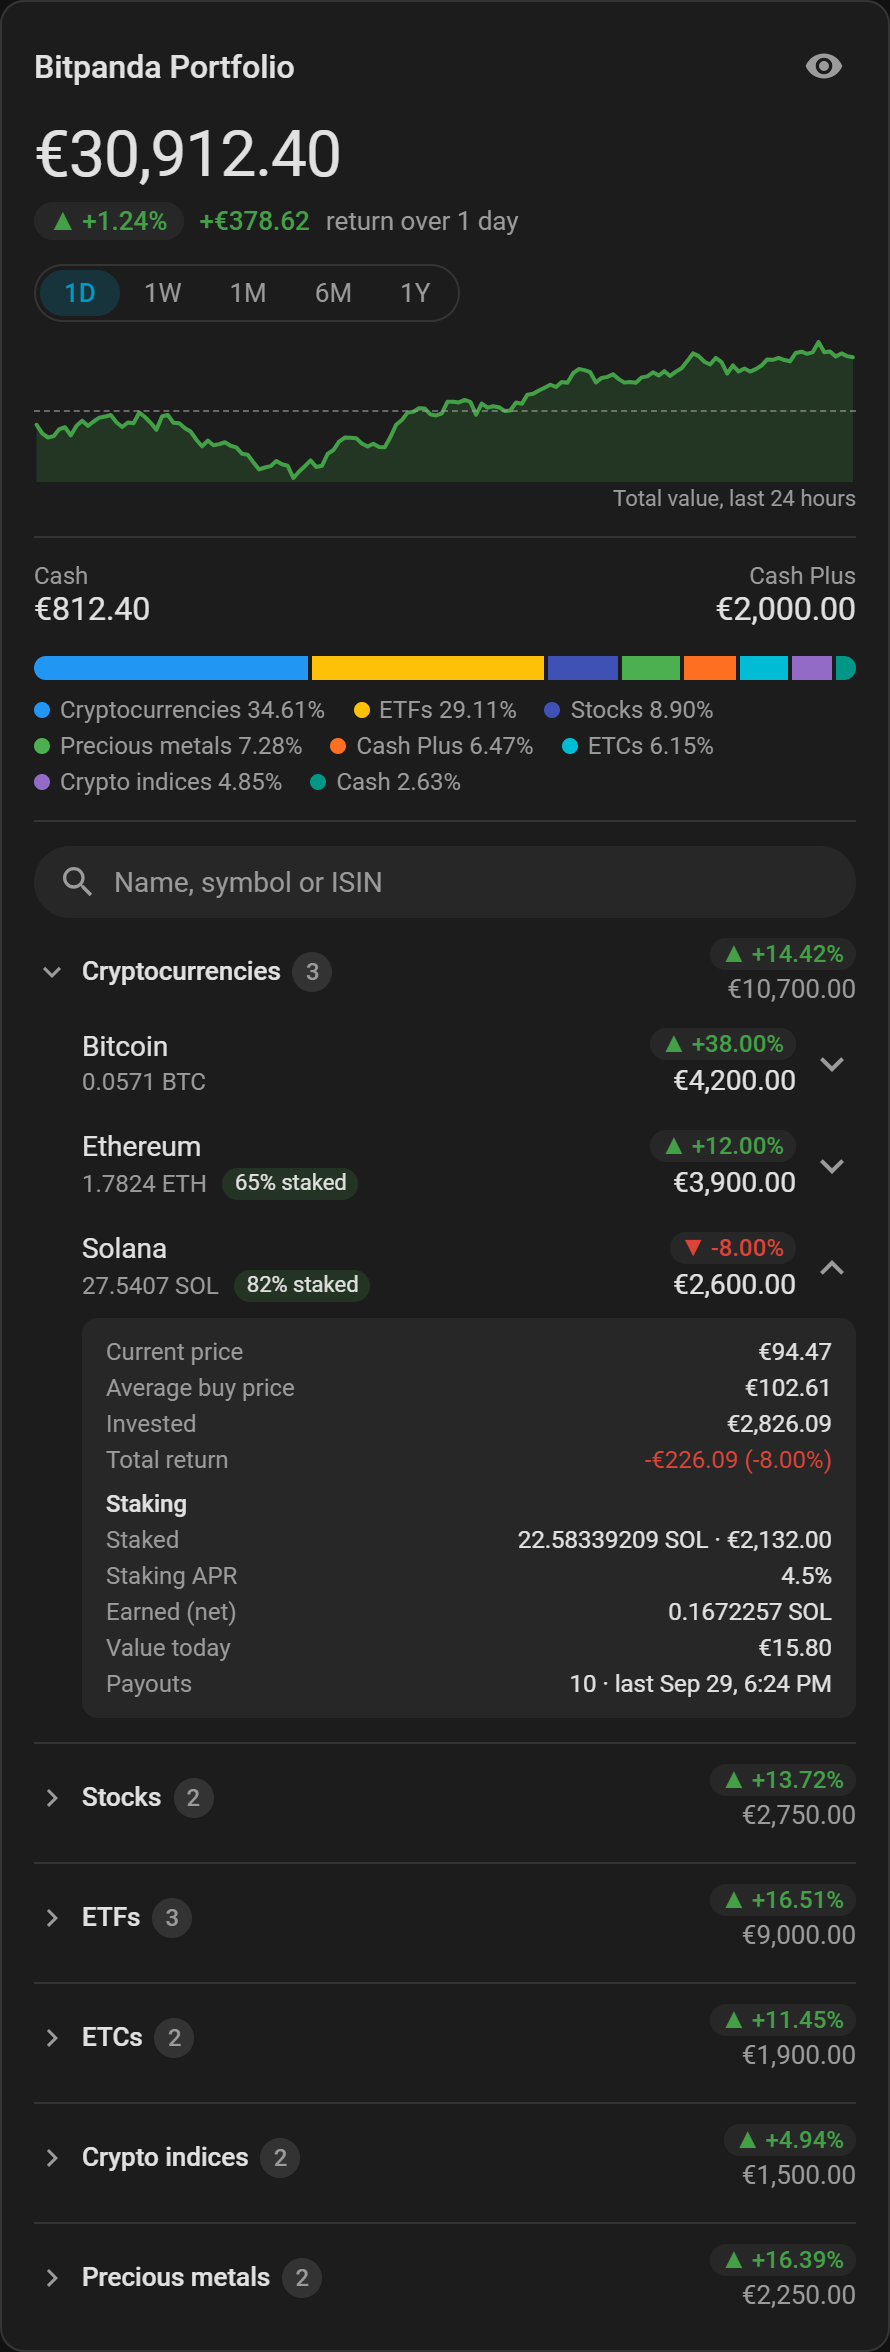
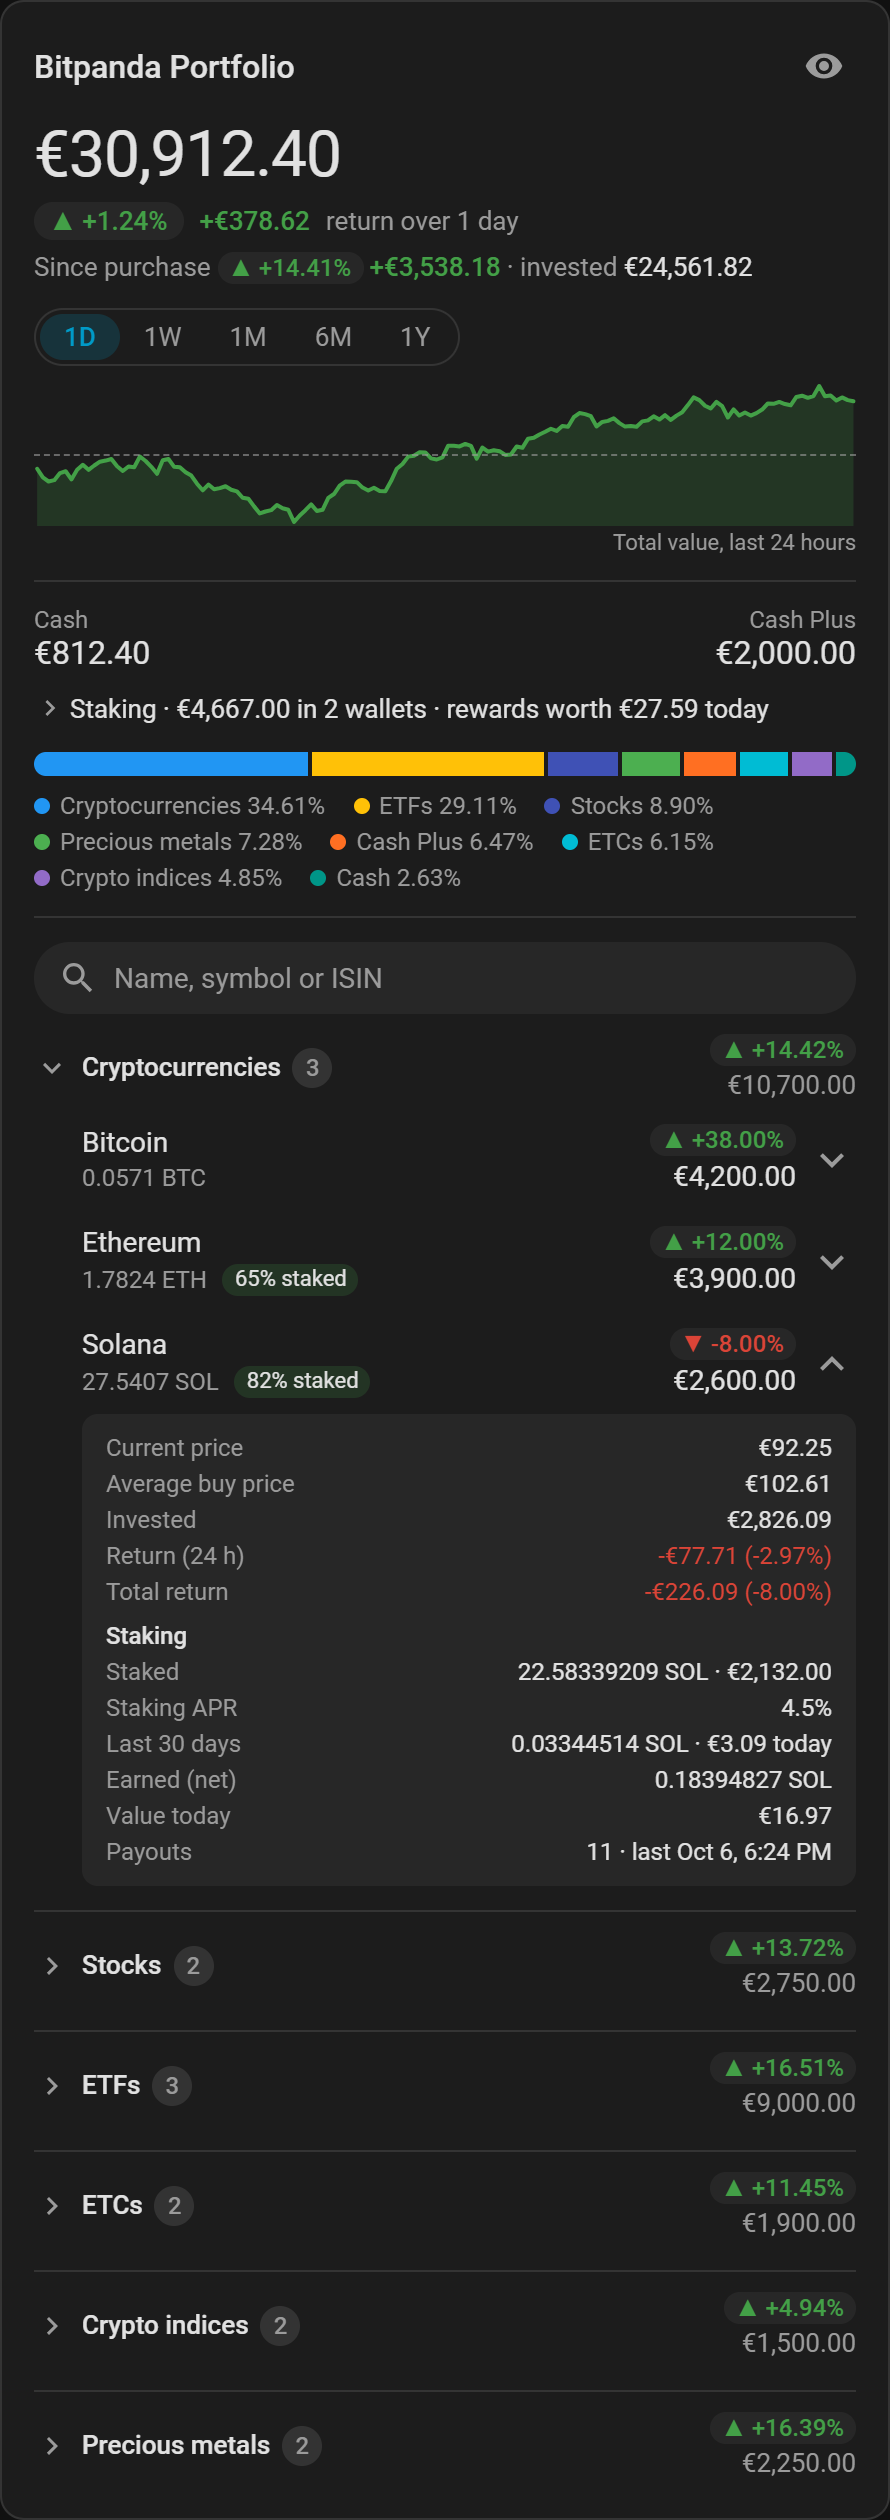
docs: describe the Portfolio card's new lines, the eye, the keyboard and the compact options, with new pictures

diff --git a/tests/test_cards.py b/tests/test_cards.py
@@ -250,13 +250,15 @@ _README = (Path(__file__).parents[1] / "README.md").read_text(encoding="utf-8")
 # Every card's options; the title is common to both.
 _OPTIONS = {
     "bitpanda-portfolio-card": {
-        "timeframe", "show_total", "show_graph", "show_cash", "show_allocation", "show_wallets",
-        "group_wallets", "show_search", "sort", "limit", "group_selection", "groups",
-        "asset_selection", "assets", "hide_amounts",
+        "timeframe", "show_total", "show_since_purchase", "show_graph", "show_cash",
+        "show_staking", "show_allocation", "show_wallets", "group_wallets", "show_search",
+        "sort", "limit", "group_selection", "groups", "asset_selection", "assets",
+        "show_header", "show_timeframes", "hide_amounts",
     },
     "bitpanda-price-tracker-card": {
         "layout", "timeframe", "currency", "sort", "group_selection", "groups",
-        "asset_selection", "assets", "limit",
+        "asset_selection", "assets", "limit", "show_header", "show_timeframes",
+        "show_currencies", "show_lines", "show_amounts",
     },
 }
 

diff --git a/README.md b/README.md
@@ -334,12 +334,12 @@ To add one, edit a dashboard, choose **Add card** and search for **Bitpanda**; e
 
 | Card | Type | Shows |
 |---|---|---|
-| **Bitpanda Portfolio** | `custom:bitpanda-portfolio-card` | Total value with your return over 1 day to 1 year and a line of the total value; Cash and Cash Plus; how your money is split across asset types, Cash and Cash Plus; your wallets, by asset type or in one list — tap a group to open it, the arrow beside a wallet for its details: the current price, average buy price, invested amount, the return over 24 hours and in total, and — while something is staked or Bitpanda offers Earn for the asset — staked units, staking APR and, from the first payout, staking rewards. Each part can be left out, down to total value and return alone |
-| **Bitpanda Price Tracker** | `custom:bitpanda-price-tracker-card` | Your tracked assets as a list or as tiles: price, change in percent and in the price's currency, and a line. With extra currencies set up in the Price Tracker, a switch shows the prices in them |
+| **Bitpanda Portfolio** | `custom:bitpanda-portfolio-card` | Total value with your return over 1 day to 1 year, your return since purchase, and a line of the total value; Cash and Cash Plus; what you stake and in how many wallets — tap it for those wallets; how your money is split across asset types, Cash and Cash Plus; your wallets, by asset type or in one list — tap a group to open it, the arrow beside a wallet for its details: the current price, average buy price, invested amount, the return over 24 hours and in total, and — while something is staked or Bitpanda offers Earn for the asset — staked units, staking APR and, from the first payout, what staking earned in the last 30 days and in all, and the payouts. Each part can be left out, down to total value and return alone |
+| **Bitpanda Price Tracker** | `custom:bitpanda-price-tracker-card` | Your tracked assets as a list or as tiles: price, change in percent and in the price's currency, and a line. With extra currencies set up in the Price Tracker, a switch shows the prices in them. The header, the switches, the lines and the change in the price's currency can each be left out |
 
 <table>
   <tr>
-    <td valign="top"><img src="https://raw.githubusercontent.com/Spegeli/hacs_bitpanda/main/.github/readme/cards/portfolio-card.png" alt="The Bitpanda Portfolio card: total value with the return over 1 day, the line of the total value, Cash and Cash Plus, the allocation, the search field and the wallets by asset type, one of them opened" width="300"></td>
+    <td valign="top"><img src="https://raw.githubusercontent.com/Spegeli/hacs_bitpanda/main/.github/readme/cards/portfolio-card.png" alt="The Bitpanda Portfolio card: total value with the return over 1 day and the return since purchase, the line of the total value, Cash and Cash Plus, the staking line, the allocation, the search field and the wallets by asset type, one of them opened" width="300"></td>
     <td valign="top">
       <img src="https://raw.githubusercontent.com/Spegeli/hacs_bitpanda/main/.github/readme/cards/portfolio-card-search.png" alt="The Bitpanda Portfolio card's wallet search: the wallets matching “sol”, one of them opened" width="300"><br><br>
       <img src="https://raw.githubusercontent.com/Spegeli/hacs_bitpanda/main/.github/readme/cards/price-tracker-card-list.png" alt="The Bitpanda Price Tracker card as a list" width="300"><br><br>
@@ -351,13 +351,16 @@ To add one, edit a dashboard, choose **Add card** and search for **Bitpanda**; e
 ### What the cards show
 
 - **The line shows the total value, not your return.** A deposit raises it; the percentage beside it is Bitpanda's return, which leaves deposits and withdrawals out, and the amount after it is what that percentage means on today's total value. The line is Bitpanda's own history of your total value, complete from the first day. Its dashed line marks the middle between the highest and the lowest value shown. Point at the line, or move a finger along it, to see the value at that moment, with the highest, middle and lowest value at the right.
+- **Since purchase** is the return on what you hold since you bought it — the Portfolio's Total return % and Total return; it does not change with the timeframe.
+- **The staking line** under Cash adds up the Balance (staking) of all your wallets — not only the ones the card shows — and counts them; it is left out while nothing is staked. A wallet whose Balance (staking) sensor is disabled does not count.
 - **A wallet's percentage** is its return since purchase, and a group's is that of all its wallets together; the timeframe switch changes neither. A wallet's total return as an amount is in its details, and so is its return over 24 hours once Home Assistant has the wallet's price of a day ago.
 - **The change in the Price Tracker** comes from Home Assistant's statistics, for 1D as for 1W to 1Y. Beside or below the percentage is the same change in the price's currency. While an asset's statistics are shorter than the timeframe, its change and its line count from their start, and the row says since when ("Change since Oct 6"). A price line breaks where Home Assistant has no statistics: while it was off or the sensor unavailable.
 - **Other currencies:** a price in another currency is Bitpanda's euro price converted at the ECB's daily reference rate, so its change includes the rate's move: on a day the euro gains 0.06 % against the dollar, a price that fell 1.12 % in euros fell 1.06 % in dollars.
 - **"—"** means that a figure is missing right now: a sensor without a value, or a change the statistics cannot give yet. A sum or a share needs all its parts: one wallet without its value shows "—" for its group and the allocation. The cards never put a figure of their own in its place.
 - **Stocks, ETFs and ETCs** count in shares, precious metals in grams. The wallet list shows up to 4 decimals, rounded down as in the Bitpanda app, and a holding below 0.0001 its first two digits, so it never reads 0; the staked units and rewards in a wallet's details show all decimals.
-- **The eye** on the Portfolio card blurs amounts and units — for a screenshot, say — and keeps the percentages and a wallet's current price; pointing at the line then shows the time only. It hides them on that card only; nothing else changes.
-- **A tap** opens Home Assistant's dialog of that figure, with its history.
+- **The eye** on the Portfolio card hides amounts and units behind a mask — for a screenshot, say — and keeps the percentages and a wallet's current price; pointing at the line then shows the time only. While it is closed, no tap opens a dialog that would show a hidden amount: neither a hidden figure nor the return beside the total value; the percentage since purchase still opens. It hides them on that card only; nothing else changes. Without the card's header, the eye stands beside the total value, or in a row of its own when that is left out too.
+- **A tap** opens Home Assistant's dialog of that figure, with its history — of a hidden figure only while the eye is open. A tap on the staking line opens its wallets; a tap on one of them opens its Balance (staking).
+- **The keyboard** works too: Tab reaches every part you can tap, Enter or Space taps it. On the line, ← and → move from point to point, Home and End go to its ends, Escape clears the point; a screen reader reads each point's value and time — the time only while the eye is closed.
 - **Language:** your profile language — English, German, French, Dutch, Italian, Spanish or Polish; English for any other. Asset group names are the integration's own, in that language — not a title you gave a group, nor the language chosen for the Portfolio.
 
 ### Card options
@@ -370,9 +373,11 @@ Gains and losses take your theme's success and error colours, green and red in H
 |---|---|---|---|
 | `title` | text | `Bitpanda Portfolio` | the card's heading |
 | `timeframe` | `day`, `week`, `month`, `six_month`, `year` | `day` | the timeframe the card opens with |
-| `show_total` | `true`, `false` | `true` | the total value and its return; the timeframe buttons stay while the line is shown |
+| `show_total` | `true`, `false` | `true` | the total value and its return; the timeframe buttons stay while the line is shown, unless `show_timeframes` is off |
+| `show_since_purchase` | `true`, `false` | `true` | under the return: the return since purchase; only with `show_total` |
 | `show_graph` | `true`, `false` | `true` | the line of the total value |
 | `show_cash` | `true`, `false` | `true` | Cash and Cash Plus |
+| `show_staking` | `true`, `false` | `true` | the staking line under Cash; left out while nothing is staked |
 | `show_allocation` | `true`, `false` | `true` | the split by asset type, Cash and Cash Plus |
 | `show_wallets` | `true`, `false` | `true` | the wallets |
 | `show_search` | `true`, `false` | `false` | a search field above the wallets: finds them by name, symbol or ISIN, as one list without groups |
@@ -383,6 +388,8 @@ Gains and losses take your theme's success and error colours, green and red in H
 | `groups` | `crypto`, `stock`, `etf`, `etc`, `index`, `metal`, `other` | — | with `all_except` or `only`: the asset groups left out or shown |
 | `asset_selection` | `all`, `all_except`, `only` | `all` | which wallets the card shows, within the asset groups shown |
 | `assets` | asset IDs | — | with `all_except` or `only`: the wallets left out or shown |
+| `show_header` | `true`, `false` | `true` | the header with the title and the eye; without it the eye stands beside the total value, or in a row of its own when that is left out too |
+| `show_timeframes` | `true`, `false` | `true` | the timeframe buttons; without them the card keeps `timeframe` |
 | `hide_amounts` | `true`, `false` | `false` | start with amounts hidden |
 
 `assets` holds Bitpanda's asset IDs — a device's serial number; the visual editor fills it in. Device IDs from older configurations still work.
@@ -397,12 +404,17 @@ Hiding a section, an asset group or a wallet changes only what the card shows: t
 | `layout` | `list`, `tiles` | `list` | the prices as a list or as tiles |
 | `timeframe` | `day`, `week`, `month`, `six_month`, `year` | `day` | the timeframe the card opens with |
 | `currency` | `EUR` or a currency set up in the Price Tracker | `EUR` | the currency the card opens with; EUR while that currency is not set up |
-| `sort` | `selection`, `name`, `change_desc`, `change_asc` | `name` | the order of the assets; `change_desc` and `change_asc` by the change of the timeframe shown, `selection` keeps the order of `assets` with `only`, otherwise by name |
+| `sort` | `selection`, `name`, `change_desc`, `change_asc` | `name` | the order of the assets; `change_desc` and `change_asc` by the change of the timeframe shown, `selection` keeps the order of `assets` with `only` — in the visual editor you drag the chosen assets into it —, otherwise by name |
 | `limit` | 0 or more; 0 shows all | `0` | assets before "Show all" |
 | `group_selection` | `all`, `all_except`, `only` | `all` | which asset groups' prices the card shows |
 | `groups` | `crypto`, `stock`, `etf`, `etc`, `index`, `metal`, `other` | — | with `all_except` or `only`: the asset groups left out or shown |
 | `asset_selection` | `all`, `all_except`, `only` | `all` | which assets the card shows, within the asset groups shown |
 | `assets` | asset IDs | — | with `all_except` or `only`: the price trackers left out or shown |
+| `show_header` | `true`, `false` | `true` | the header with the title |
+| `show_timeframes` | `true`, `false` | `true` | the timeframe buttons; without them the card keeps `timeframe` |
+| `show_currencies` | `true`, `false` | `true` | the currency buttons; without them the card keeps `currency` |
+| `show_lines` | `true`, `false` | `true` | a line in every row and tile; the changes come from the statistics either way |
+| `show_amounts` | `true`, `false` | `true` | the change in the price's currency beside its percentage; without it the footer of another currency speaks of the percentages only |
 
 `assets` holds Bitpanda's asset IDs — a device's serial number; the visual editor fills it in. Device IDs from older configurations still work.
 
